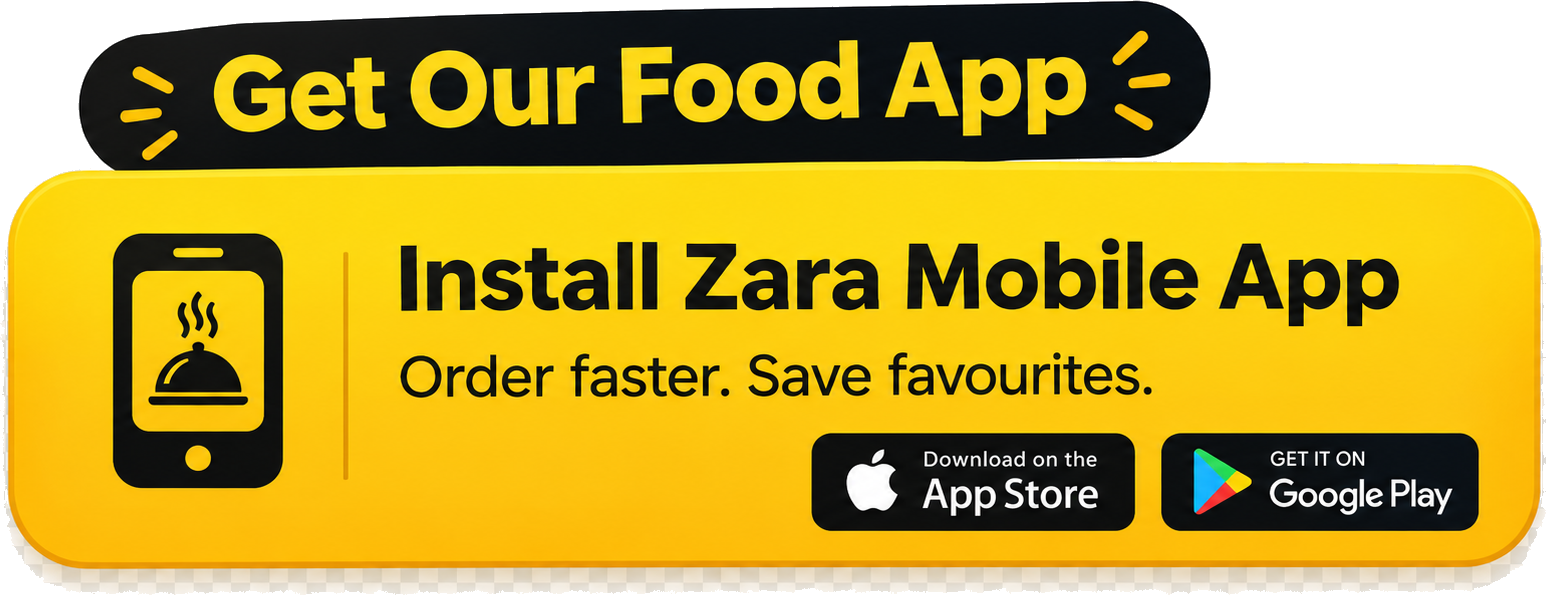
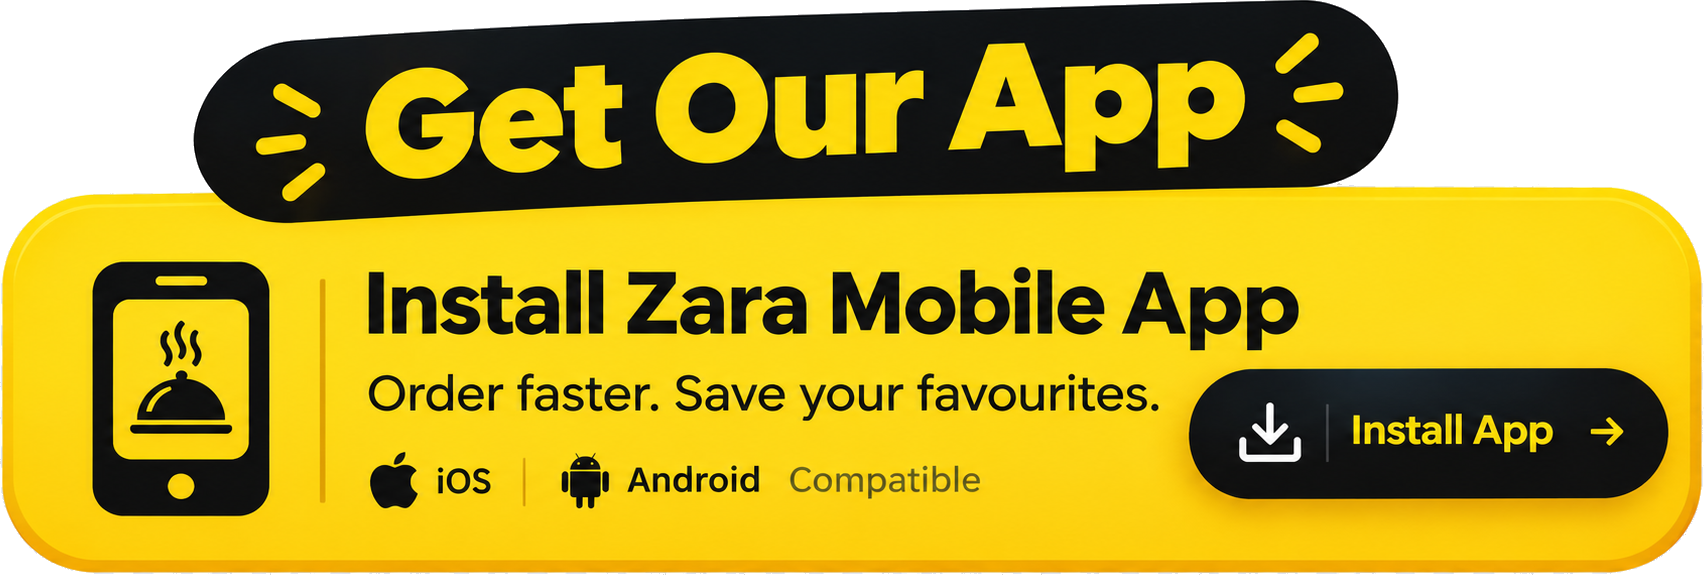
Replace footer install button with corrected wording asset
New image has accurate PWA-appropriate text: 'Get Our App', 'iOS |
Android Compatible', and a plain 'Install App' button -- no more
App Store / Google Play badges that didn't match the actual install
flow. Same checkerboard-baked-in issue as the previous asset, fixed
with the same border-connected flood-fill approach.

diff --git a/components/Footer.tsx b/components/Footer.tsx
@@ -38,7 +38,7 @@ export default function Footer() {
           >
             <img
               src="/images/assets/install-app-button.png"
-              alt="Get Our Food App: Install Zara Mobile App. Order faster. Save favourites."
+              alt="Get Our App: Install Zara Mobile App. Order faster. Save your favourites. iOS & Android compatible."
               className="w-full h-auto max-h-full object-contain"
             />
           </button>
